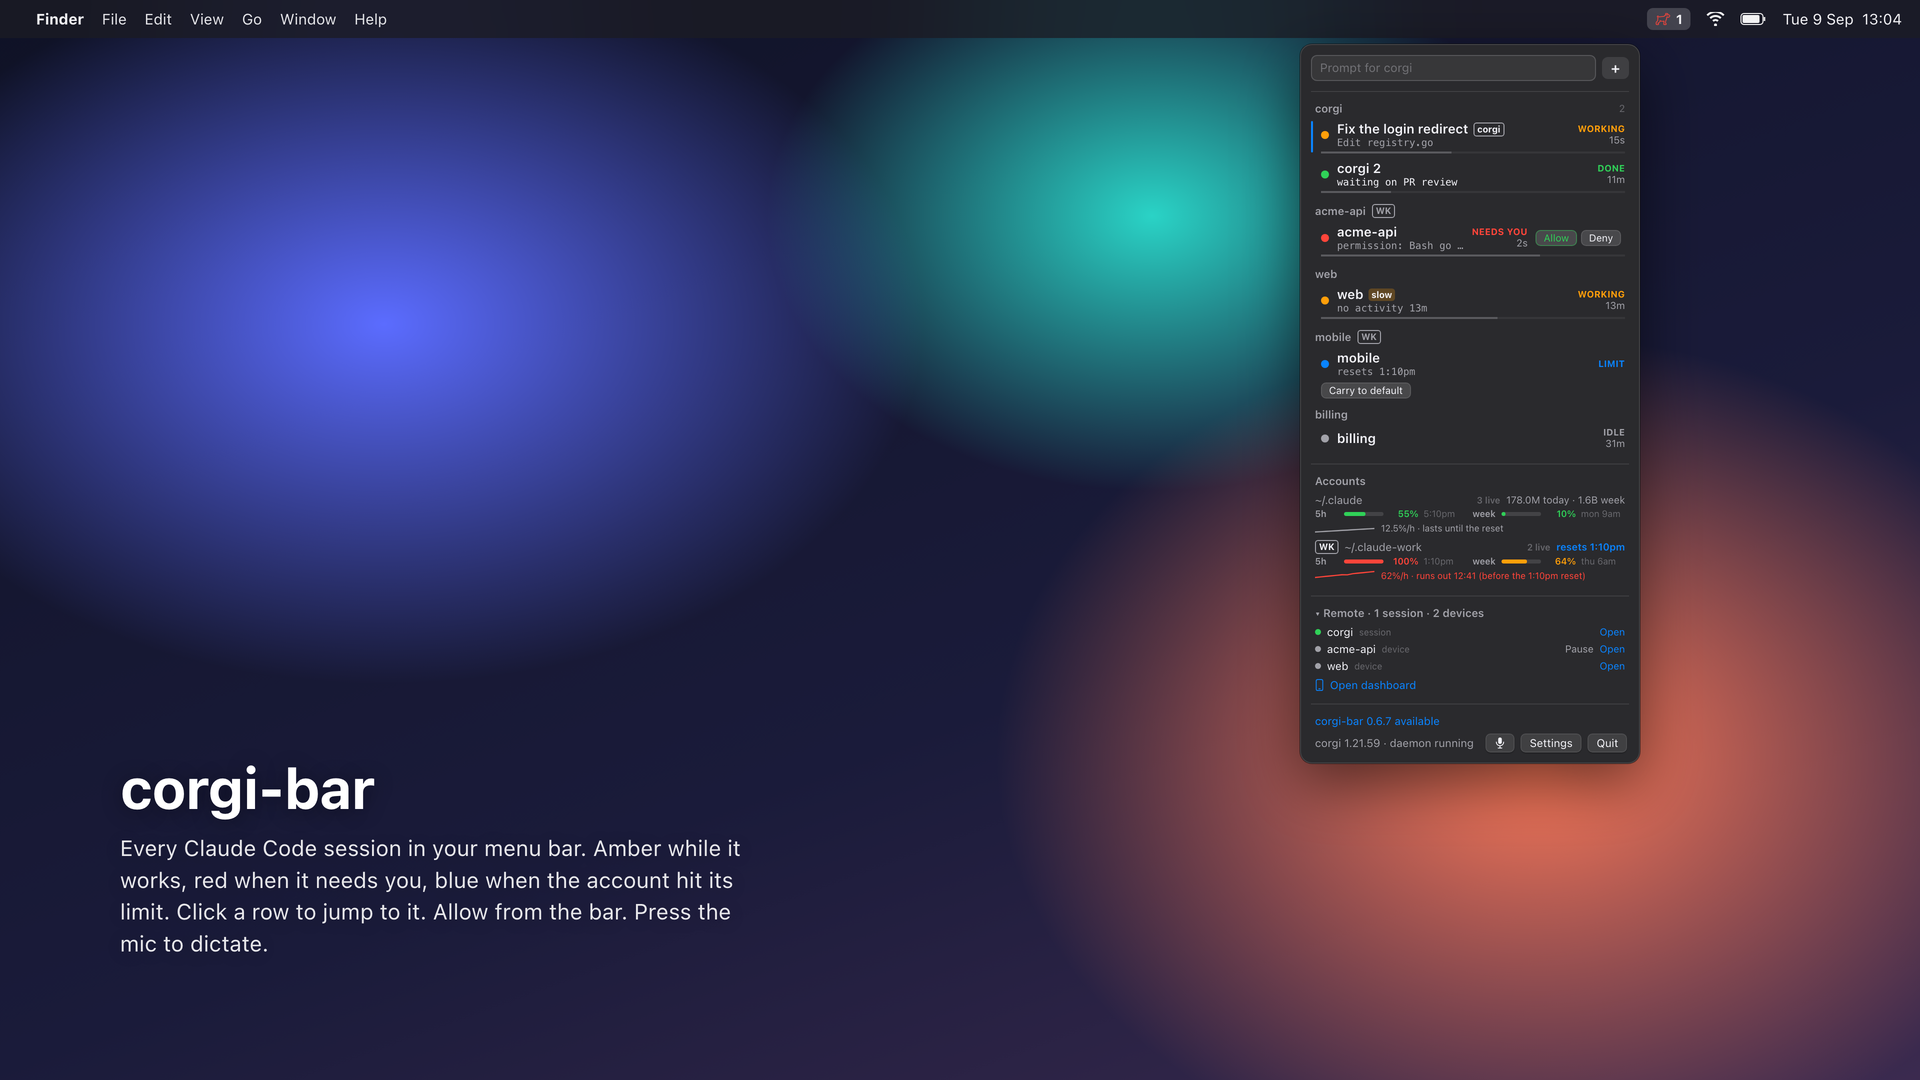
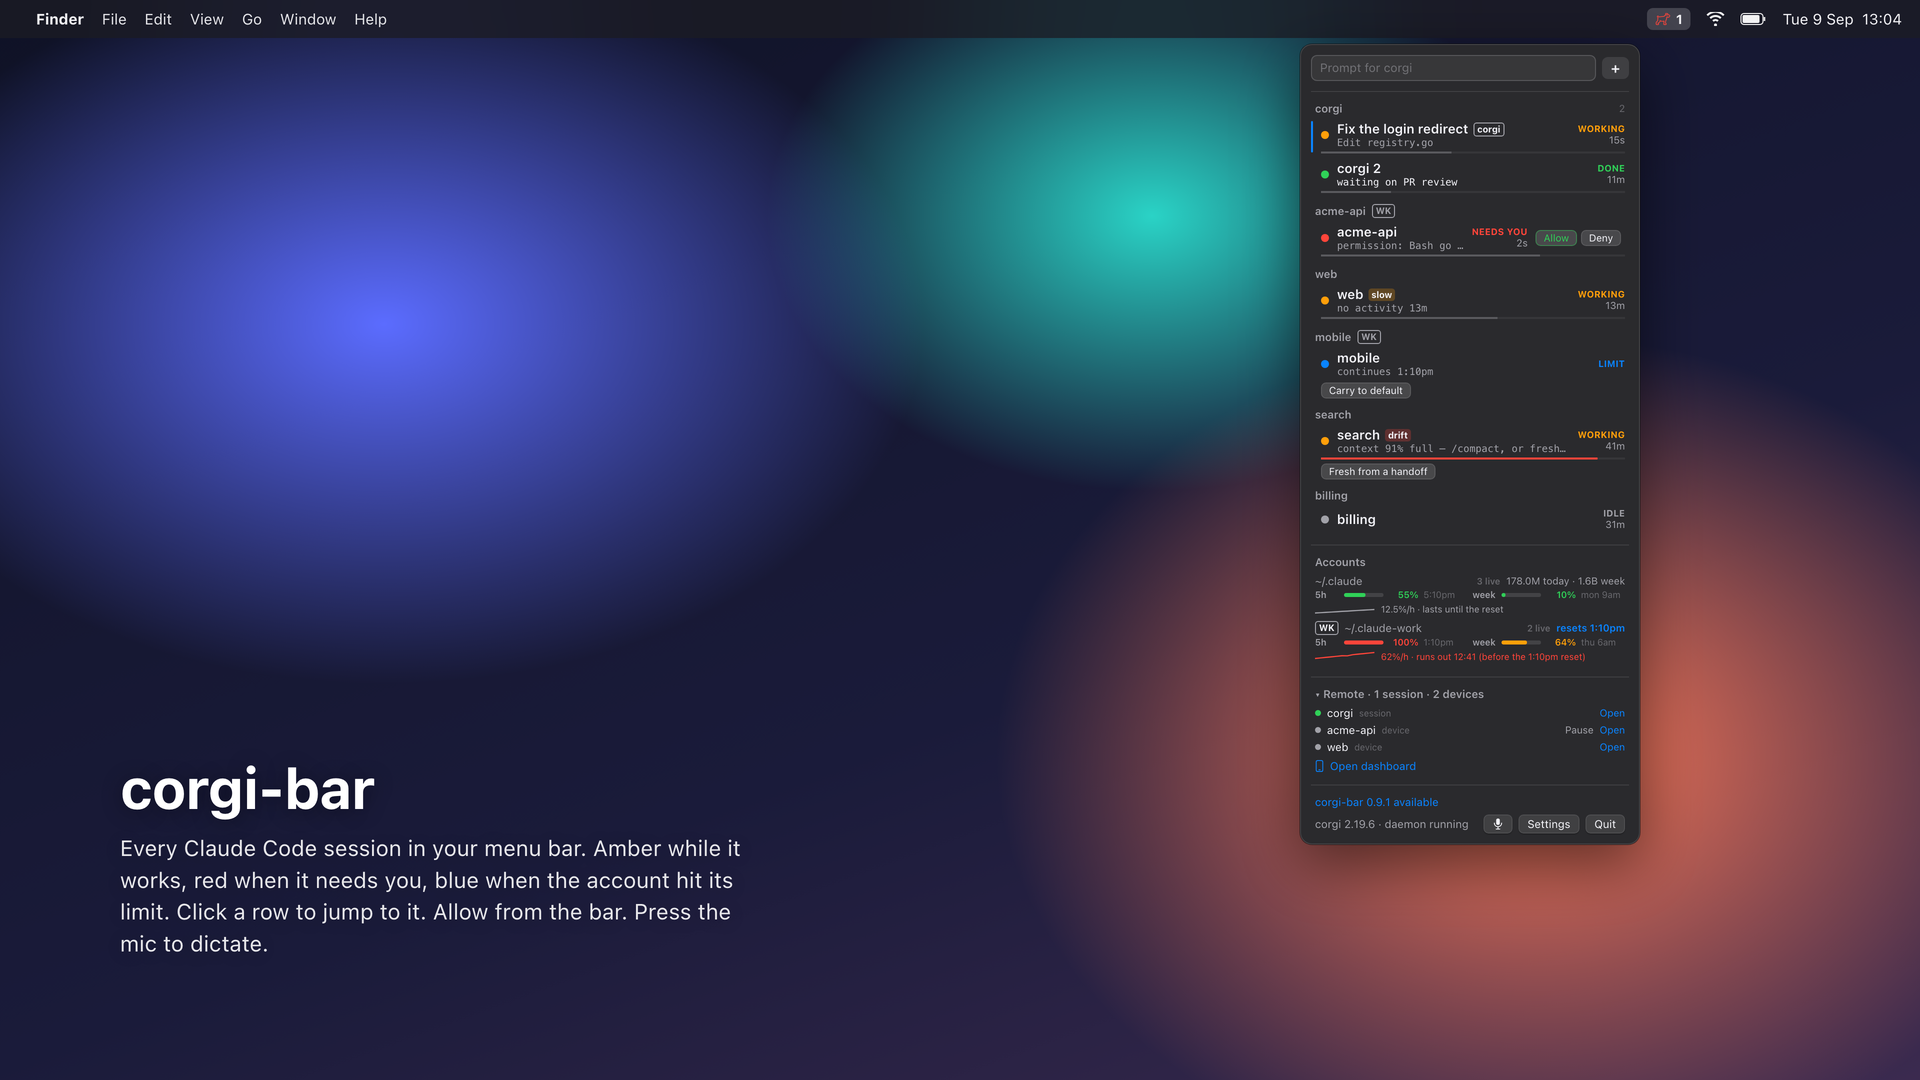
0.10.0: a drifting session says why and offers Fresh; a limited one says when it continues; blocked inbox rows unblock; the pull request in the menu

Changed region(s): [[0.6562, 0.3972, 0.875, 0.825], [0.7188, 0.3361, 0.75, 0.3667]]

diff --git a/Sources/CorgiBar/App.swift b/Sources/CorgiBar/App.swift
@@ -396,6 +396,9 @@ struct SessionRow: View {
             if session.status == .limited {
                 carry
             }
+            if session.isDrifting {
+                fresh
+            }
         }
         .padding(.vertical, 3)
         .padding(.leading, 6)
@@ -433,6 +436,11 @@ struct SessionRow: View {
                             .background(RoundedRectangle(cornerRadius: 3).fill(Palette.amber.opacity(0.25)))
                             .help("Working, but no event for 12 minutes")
                     }
+                    if session.isDrifting {
+                        Text("drift").font(.system(size: 9, weight: .bold)).padding(.horizontal, 3).padding(.vertical, 1)
+                            .background(RoundedRectangle(cornerRadius: 3).fill(Palette.red.opacity(0.25)))
+                            .help(session.driftText)
+                    }
                     if let e = session.focusError, !e.isEmpty {
                         Text("⚠").help(e)
                     }
@@ -453,15 +461,32 @@ struct SessionRow: View {
         .padding(.horizontal, 4)
     }
 
-    /// The note when there is one, else what the session is doing.
+    /// The note when there is one, else what the session is doing, else the
+    /// branch it is on.
     private var secondary: String? {
         if let note = session.note, !note.isEmpty { return note }
+        if let why = session.drift?.first, !why.isEmpty { return why }
         if session.isStuck {
             return "no activity \(elapsedText(since: session.lastActivity, now: now))"
         }
         if let pending = session.answerable { return "permission: \(pending.text)" }
+        if let line = session.limitLine(now: now) { return line }
         if let d = session.detail, !d.isEmpty { return d }
+        if let b = session.branch, !b.isEmpty { return b }
         return nil
+    }
+
+    /// The way out of a drift: a clean session started from a handoff,
+    /// under the same account. What the phone's Fresh button does.
+    @ViewBuilder private var fresh: some View {
+        HStack(spacing: 6) {
+            Button("Fresh from a handoff") {
+                Corgi.shared.runInBackground(["agent", "carry", session.id, "--fresh"])
+            }
+            .buttonStyle(.bordered).controlSize(.mini)
+            .help("Leave a handoff and start this session clean:\n" + session.driftText)
+        }
+        .padding(.horizontal, 4)
     }
 
     @ViewBuilder private var carry: some View {
@@ -497,6 +522,11 @@ struct SessionRow: View {
             }
         }
         Button("Compact context") { talk.sendText(session, "/compact", enter: true) }
+        Button("Fresh from a handoff") { Corgi.shared.runInBackground(["agent", "carry", session.id, "--fresh"]) }
+            .disabled(session.status == .gone)
+        if let pr = session.pullRequest {
+            Button("Open pull request") { NSWorkspace.shared.open(pr) }
+        }
         if settings.approveFromBar, session.answerable != nil {
             Divider()
             Button("Allow always") { talk.answer(session, .always) }
@@ -869,8 +899,18 @@ struct WatchView: View {
                                 if !item.title.isEmpty {
                                     Text(item.title).font(.system(size: 10)).foregroundStyle(.secondary).lineLimit(1)
                                 }
+                                if let why = item.blocked, !why.isEmpty {
+                                    Text("blocked: \(why)").font(.system(size: 10)).foregroundStyle(Palette.red).lineLimit(1)
+                                }
                             }
                             Spacer()
+                            if item.blocked != nil {
+                                Button("Unblock") { watcher.unblock(item) }
+                                    .buttonStyle(.plain)
+                                    .font(.system(size: 10, weight: .semibold))
+                                    .foregroundStyle(Palette.blue)
+                                    .help("Let unattended runs work this ticket again")
+                            }
                             if let link = item.link {
                                 Button("Open") { NSWorkspace.shared.open(link) }
                                     .buttonStyle(.plain)
@@ -887,6 +927,7 @@ struct WatchView: View {
                         .padding(.horizontal, 4)
                         .contextMenu {
                             if let link = item.link { Button("Open") { NSWorkspace.shared.open(link) } }
+                            if item.blocked != nil { Button("Unblock") { watcher.unblock(item) } }
                             Button("Ignore") { watcher.ignore(item) }
                         }
                     }

diff --git a/Sources/CorgiBar/Board.swift b/Sources/CorgiBar/Board.swift
@@ -266,6 +266,20 @@ struct Session: Decodable, Identifiable {
     var pending: Pending?
     var note: String?
     var stuck: Bool?
+    /// The cwd's branch as of the last prompt; what Claude last said; the
+    /// last pull request it linked.
+    var branch: String?
+    var summary: String?
+    var pr: String?
+    /// Which kind of limit a limited session hit ("quota" or "overload"),
+    /// and when the daemon plans to type "continue" into it.
+    var limit: String?
+    var resumeAt: Date?
+    var resumes: Int?
+    /// What the daemon concluded a person should look at: a context nearly
+    /// full, the same tool failing on repeat, a diff past its budget. Empty
+    /// when there is nothing.
+    var drift: [String]?
 
     var name: String { display ?? label }
     /// What tells this session from its workspace siblings: the part of the
@@ -288,6 +302,26 @@ struct Session: Decodable, Identifiable {
     var answerable: Pending? { status == .needsInput ? pending : nil }
 
     var isStuck: Bool { stuck == true && status == .working }
+
+    var isDrifting: Bool { !(drift ?? []).isEmpty }
+    var driftText: String { (drift ?? []).joined(separator: "\n") }
+
+    var pullRequest: URL? {
+        guard let pr, pr.hasPrefix("https://") else { return nil }
+        return URL(string: pr)
+    }
+
+    /// What a limited session is waiting for: the API to calm down, or the
+    /// minute the daemon continues it.
+    func limitLine(now: Date) -> String? {
+        guard status == .limited else { return nil }
+        if limit == "overload" { return "API overloaded — retried on its own" }
+        if let at = resumeAt, at > now, at.timeIntervalSince1970 > 946_684_800 {
+            let n = resumes ?? 0
+            return "continues \(LimitBar.resetText(at))" + (n > 0 ? " · \(n) so far" : "")
+        }
+        return nil
+    }
 
     /// The two-letter chip for another account: ~/.claude-work → WK, client → CL.
     var profileChip: String? {

diff --git a/Tests/CorgiBarTests/BoardTests.swift b/Tests/CorgiBarTests/BoardTests.swift
@@ -116,6 +116,30 @@ final class BoardContractTests: XCTestCase {
         XCTAssertEqual(board.agentDir, "/Users/me/Library/Application Support/corgi/agent")
     }
 
+    func testDecodesDriftLimitAndThePullRequest() throws {
+        let board = try Board.decode(Data("""
+        {"sessions":[
+          {"id":"a","label":"api","status":"working","host":{"kind":"iterm"},
+           "branch":"feature/ABC-4","pr":"https://github.com/acme/api/pull/9",
+           "drift":["context 91% full — /compact, or fresh from a handoff","diff is 5200 lines, far past the usual size"]},
+          {"id":"b","label":"web","status":"limited","host":{"kind":"iterm"},"limit":"quota",
+           "resumeAt":"2026-09-10T12:50:00Z","resumes":2},
+          {"id":"c","label":"ops","status":"limited","host":{"kind":"iterm"},"limit":"overload"},
+          {"id":"d","label":"old","status":"limited","host":{"kind":"iterm"},"resumeAt":"0001-01-01T00:00:00Z"}]}
+        """.utf8))
+        let a = board.sessions[0]
+        XCTAssertTrue(a.isDrifting)
+        XCTAssertEqual(a.drift?.first, "context 91% full — /compact, or fresh from a handoff")
+        XCTAssertEqual(a.pullRequest?.absoluteString, "https://github.com/acme/api/pull/9")
+        XCTAssertEqual(a.branch, "feature/ABC-4")
+        let now = Date(timeIntervalSince1970: 1_789_000_000)
+        XCTAssertTrue(board.sessions[1].limitLine(now: now)?.hasPrefix("continues ") == true)
+        XCTAssertTrue(board.sessions[1].limitLine(now: now)?.hasSuffix("· 2 so far") == true)
+        XCTAssertEqual(board.sessions[2].limitLine(now: now), "API overloaded — retried on its own")
+        XCTAssertNil(board.sessions[3].limitLine(now: now), "a zero time from an older laptop is not a time")
+        XCTAssertFalse(board.sessions[3].isDrifting)
+    }
+
     func testPendingOnlyCountsWhileWaiting() throws {
         var board = try fixture()
         board.sessions[0].status = .working

diff --git a/Sources/CorgiBar/Watch.swift b/Sources/CorgiBar/Watch.swift
@@ -88,9 +88,12 @@ struct WatchStatus: Decodable {
         var url: String?
         var state: String?
         var at: Date?
+        /// Why unattended runs stopped on this ticket: the breaker tripped
+        /// after two failed runs, or someone blocked it by hand.
+        var blocked: String?
         var id: String { key }
 
-        enum CodingKeys: String, CodingKey { case key, ref, kind, workspace, title, url, state, at }
+        enum CodingKeys: String, CodingKey { case key, ref, kind, workspace, title, url, state, at, blocked }
         init(from decoder: Decoder) throws {
             let c = try decoder.container(keyedBy: CodingKeys.self)
             key = try c.decodeIfPresent(String.self, forKey: .key) ?? ""
@@ -101,6 +104,7 @@ struct WatchStatus: Decodable {
             url = try c.decodeIfPresent(String.self, forKey: .url)
             state = try c.decodeIfPresent(String.self, forKey: .state)
             at = try c.decodeIfPresent(Date.self, forKey: .at)
+            blocked = try c.decodeIfPresent(String.self, forKey: .blocked)
         }
 
         /// What kind of thing it is, in the words the menu has room for.
@@ -110,6 +114,9 @@ struct WatchStatus: Decodable {
             case "issue.comment": return "comment"
             case "pr.comment": return "PR comment"
             case "pr.review": return "PR review"
+            case "review.requested": return "review asked"
+            case "ci.failed": return "build red"
+            case "routine": return "routine"
             default: return kind
             }
         }

diff --git a/Tests/CorgiBarTests/WatchTests.swift b/Tests/CorgiBarTests/WatchTests.swift
@@ -22,6 +22,19 @@ final class WatchTests: XCTestCase {
         XCTAssertEqual(s.workspaces[0].fixes?.perDay, 10)
     }
 
+    func testABlockedTicketSaysWhyAndNewKindsHaveWords() throws {
+        let s = try decode("""
+        {"events":[
+          {"key":"jira:ABC-9:c1","ref":"ABC-9","kind":"issue.comment","workspace":"api","title":"still failing","at":"2026-09-10T12:00:00Z","blocked":"2 runs failed"},
+          {"key":"gh:api#12:n1","ref":"api#12","kind":"review.requested","workspace":"api","at":"2026-09-10T12:00:00Z"},
+          {"key":"gh:api#13:ci","ref":"api#13","kind":"ci.failed","workspace":"api","at":"2026-09-10T12:00:00Z"}]}
+        """)
+        XCTAssertEqual(s.events[0].blocked, "2 runs failed")
+        XCTAssertNil(s.events[1].blocked)
+        XCTAssertEqual(s.events[1].kindLabel, "review asked")
+        XCTAssertEqual(s.events[2].kindLabel, "build red")
+    }
+
     func testEmptyAndMalformedAreNotACrash() throws {
         XCTAssertFalse(try decode("{}").watched)
         XCTAssertEqual(try decode("{}").fixes.count, 0)

diff --git a/Sources/CorgiBar/BoardWatcher.swift b/Sources/CorgiBar/BoardWatcher.swift
@@ -68,6 +68,15 @@ final class BoardWatcher: ObservableObject {
         }
     }
 
+    /// Let unattended runs work a blocked ticket again, then re-read.
+    func unblock(_ item: WatchStatus.Item) {
+        var args = ["agent", "watch", "unblock", item.ref.isEmpty ? item.key : item.ref]
+        if !item.workspace.isEmpty { args += ["--workspace", item.workspace] }
+        Corgi.shared.runInBackground(args) { [weak self] _ in
+            DispatchQueue.main.async { self?.refreshWatch() }
+        }
+    }
+
     /// Turn the unattended mode on or off for one workspace, then re-read.
     /// The daemon has to be restarted for it to take, which corgi says too.
     func setAuto(_ on: Bool, workspace id: String) {

diff --git a/SPEC.md b/SPEC.md
@@ -106,11 +106,21 @@ Top to bottom:
      bar focuses the session the Talk way and presses the keys itself.
    - Secondary click → menu: **Dismiss** (not for working / needs_input),
      **Pin / Unpin** (by key number), **Compact context** (`corgi agent send
-     <id> --enter /compact`), **Allow always** / **Deny** when pending and
-     approving is on, **Mute session** / **Mute workspace**, **Copy session
-     id**, **Open folder in Finder** (`cwd`).
+     <id> --enter /compact`), **Fresh from a handoff** (`corgi agent carry
+     <id> --fresh`), **Open pull request** when `pr` is set, **Allow
+     always** / **Deny** when pending and approving is on, **Mute session** /
+     **Mute workspace**, **Copy session id**, **Open folder in Finder** (`cwd`).
+   - A drifting row (`drift[]` non-empty: the daemon read a context nearly
+     full, the same tool failing on repeat, a diff past its budget) shows a
+     red **drift** chip with the reasons as its tooltip, the first reason
+     as its line, and a **Fresh from a handoff** button. The line under a
+     row is, in order: the note, the drift reason, "no activity …" when
+     stuck, the permission, the limit ("continues 12:50 · 2 so far" from
+     `resumeAt` / `resumes`, or "API overloaded — retried on its own" when
+     `limit` is overload), `detail`, then `branch`.
    - A `limited` row shows "resets …" in blue where the elapsed time would
-     be, and a **Carry to <profile>** button for every other account in
+     be, "continues …" under it when the daemon plans to, and a **Carry to
+     <profile>** button for every other account in
      `accounts[]` with `fiveHour.percent < 90` → `corgi agent carry <id>
      --profile <profile>`. When the board then says the workspace lists no
      accounts, that notice shows under the row: corgi refuses moves the

diff --git a/README.md b/README.md
@@ -125,3 +125,13 @@ and restarts the daemon for you.
 An unattended fix runs for minutes and its notification is gone in a second,
 so the section also shows what is running, and what the finished runs opened —
 **Open** goes straight to the pull request.
+
+Above those sits the inbox: what arrived and still waits on a person, with
+**Open**, **Ignore**, and **Unblock** on a ticket the breaker stopped after two
+failed runs (the reason is right there in red).
+
+A session the daemon thinks is drifting — context nearly full, the same tool
+failing on repeat, a diff far past its budget — gets a red **drift** chip with
+the reasons, and a **Fresh from a handoff** button: a clean session, same
+account, picking up from the handoff it leaves. A limited one says when the
+daemon continues it.
